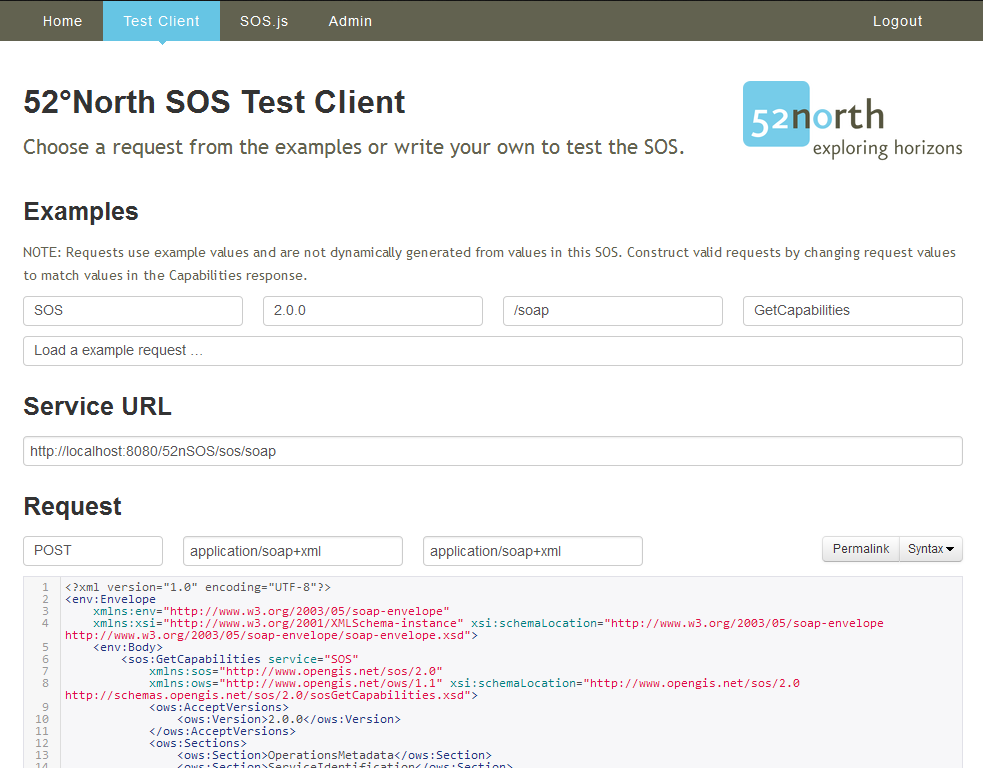
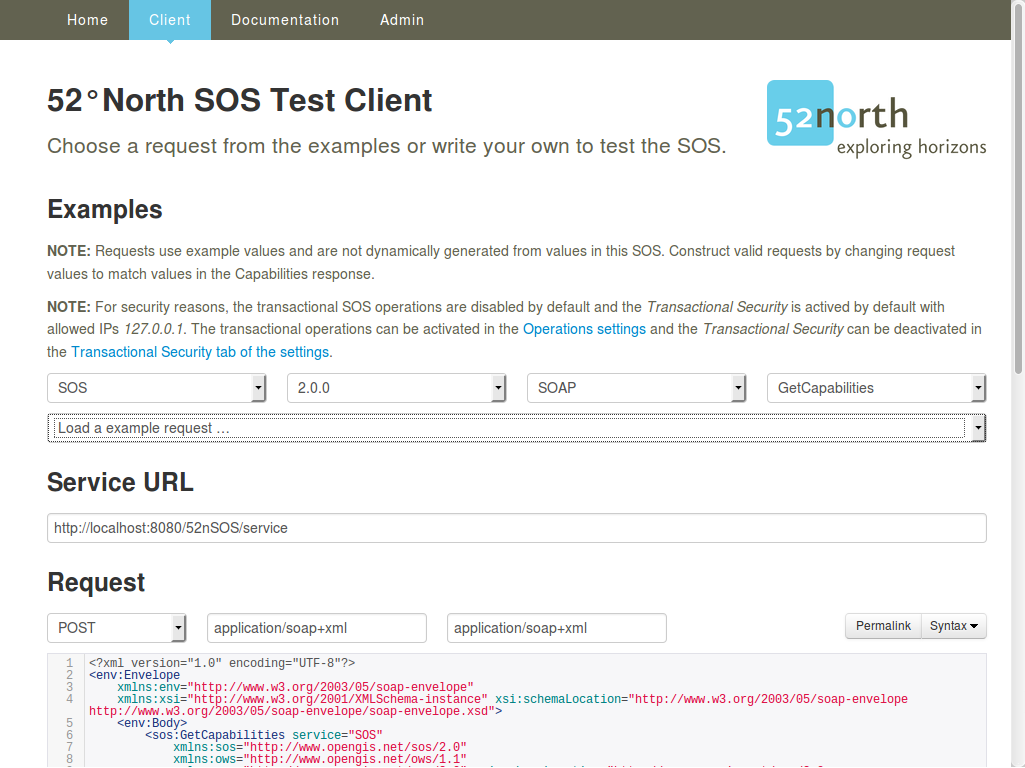
Update image for step 3 and fix version in URL

diff --git a/de/quickstart/52nSOS_quickstart.rst b/de/quickstart/52nSOS_quickstart.rst
@@ -1,6 +1,6 @@
 :Author: Eike Hinderk Jürrens (e.h.juerrens@52north.org), Simon Jirka (s.jirka@52north.org)
 :Reviewer: 
-:Version: osgeo-live8.0
+:Version: osgeo-live9.0
 :License: Creative Commons Attribution-ShareAlike 3.0 Unported  (CC BY-SA 3.0)
 
 .. image:: ../../images/project_logos/logo_52North_160.png
@@ -42,7 +42,7 @@ Erste Schritte
 **Abb. 1**: 52°North SOS Anwendung - Willkommens-Seite
 
 3. Um eigene Anfragen an den SOS zu stellen, wird das `Capabilities-Dokument des
-   52°North SOS benötigt <http://localhost:8080/52nSOS/sos?REQUEST=GetCapabilities&SERVICE=SOS&ACCEPTVERSIONS=1.0.0>`_.
+   52°North SOS benötigt <http://localhost:8080/52nSOS/sos?REQUEST=GetCapabilities&SERVICE=SOS&ACCEPTVERSIONS=2.0.0>`_.
    Mit Hilfe der Inhalte des Capabilities-Dokuments (siehe Abb. 2) können die 
    Beispielanfragen aus der Beispielliste individuell angepasst werden.
 

diff --git a/en/quickstart/52nSOS_quickstart.rst b/en/quickstart/52nSOS_quickstart.rst
@@ -40,7 +40,7 @@ Getting Started
 
 **Fig. 1**: 52°North SOS client - welcome page
 
-3. Once you know `the capabilities of a SOS <http://localhost:8080/52nSOS/sos?REQUEST=GetCapabilities&SERVICE=SOS&ACCEPTVERSIONS=1.0.0>`_,
+3. Once you know `the capabilities of a SOS <http://localhost:8080/52nSOS/sos?REQUEST=GetCapabilities&SERVICE=SOS&ACCEPTVERSIONS=2.0.0>`_,
    (see Fiq. 2) you can craft appropriate queries. Again, this is made easier 
    by selecting sample queries from the test client pull down list. Using the 
    information from the capabilities, you can adjust the available example 
